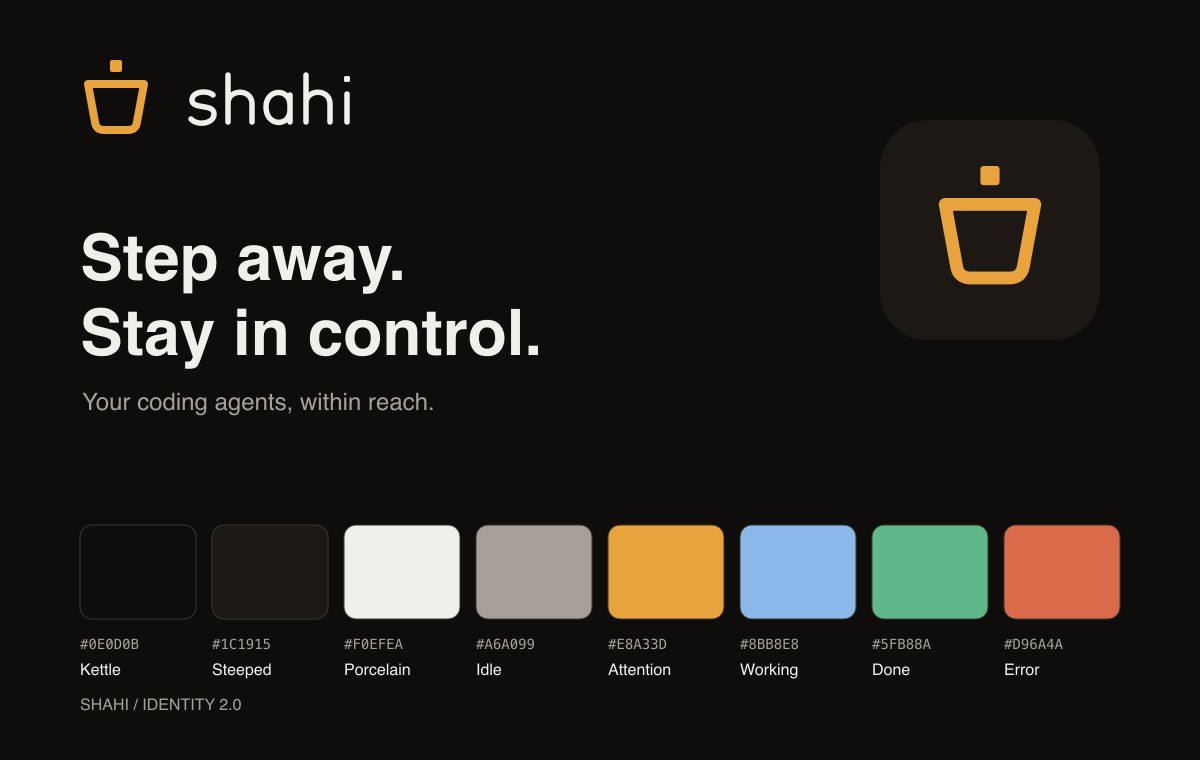
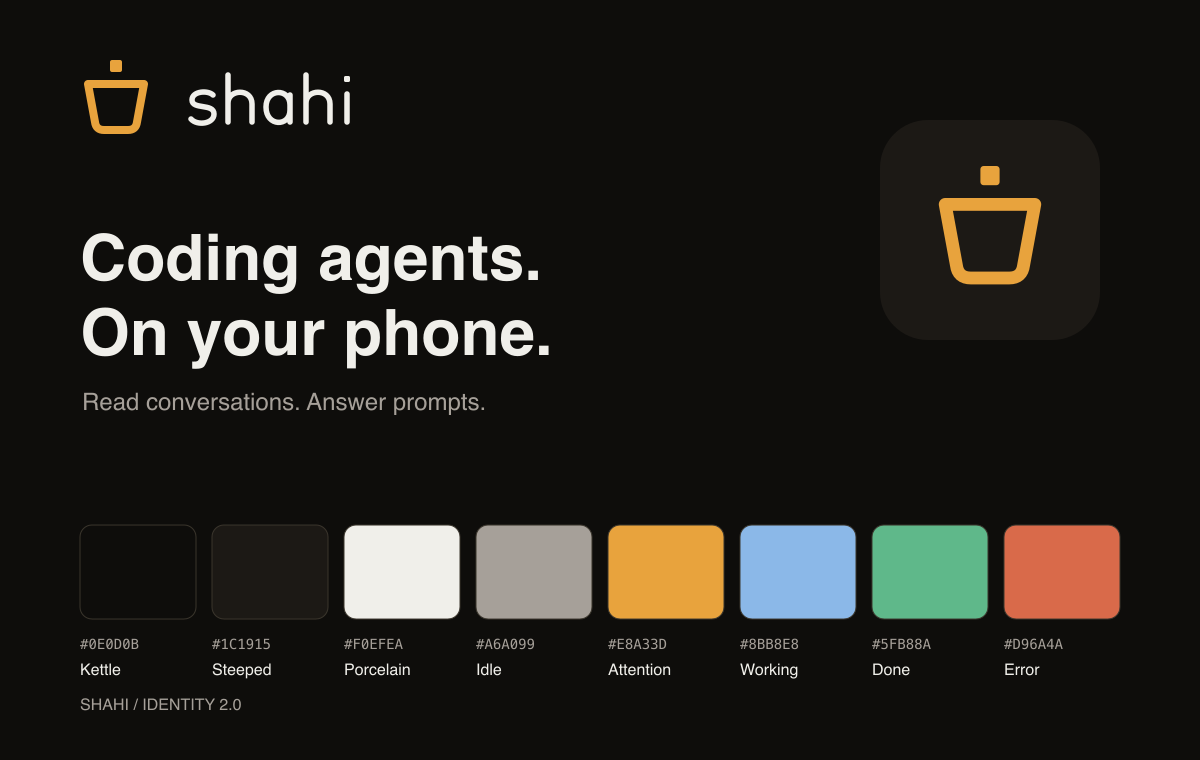
Replace promotional filler with direct product copy

Changed region(s): [[0.0617, 0.3026, 0.4625, 0.4842], [0.0617, 0.5145, 0.4008, 0.5447]]

diff --git a/site/public/index.html b/site/public/index.html
@@ -3,11 +3,11 @@
 <head>
 <meta charset="utf-8">
 <meta name="viewport" content="width=device-width, initial-scale=1">
-<title>Shahi — Step away. Stay in control.</title>
-<meta name="description" content="Your coding agents, within reach. Step away. Stay in control. Read conversations and answer requests from your phone or browser.">
+<title>Shahi — Coding agents on your phone</title>
+<meta name="description" content="Read Claude Code and Codex conversations, answer permission prompts, and manage agents from your phone or browser.">
 <meta name="color-scheme" content="dark">
-<meta property="og:title" content="Shahi — Step away. Stay in control.">
-<meta property="og:description" content="Your coding agents, within reach. Read conversations and answer requests from anywhere.">
+<meta property="og:title" content="Shahi — Coding agents on your phone">
+<meta property="og:description" content="Read agent conversations and answer permission prompts from your phone or browser.">
 <meta property="og:type" content="website">
 <meta property="og:url" content="https://getshahi.dev">
 <link rel="icon" href="/favicon.svg" type="image/svg+xml">
@@ -26,11 +26,10 @@
       <img class="wordmark" src="/wordmark.svg" alt="Shahi" width="114" height="48">
     </div>
 
-    <h1>Step away.<br>Stay in control.</h1>
+    <h1>Coding agents.<br>On your phone.</h1>
     <p class="lede">
-      Your coding agents, within reach. Read conversations, answer requests,
-      and keep work moving from your phone. Works with Claude Code, Codex,
-      and agents running in <a href="https://herdr.dev">herdr</a>.
+      Read Claude Code and Codex conversations, answer permission prompts,
+      and manage agents running in <a href="https://herdr.dev">herdr</a>.
     </p>
     <div class="hero-actions">
       <a class="button-primary" href="/pwa/">Open Shahi <span aria-hidden="true">↗</span></a>
@@ -80,13 +79,11 @@
   </section>
   <p class="caption">Try answering Claude above. This preview stays on this page; it doesn’t control a real agent.</p>
 
-  <h2>The problem</h2>
+  <h2>Check on work away from your desk</h2>
   <p>
-    Agents stop. Claude Code hits a permission prompt, Codex asks which option
-    you meant, a long run finishes and waits. Each one blocks until you are
-    back at your desk — and you find out by walking over and checking.
+    See which agents are running, finished, or waiting for an answer.
+    Open a conversation to read what happened and respond from your phone.
   </p>
-  <p>Shahi turns that wait into something you can answer from your pocket.</p>
 
   <h2 id="quick-start">Quick start</h2>
   <p>On the machine where herdr runs:</p>
@@ -95,7 +92,7 @@
   <p>
     That installs the sidecar as a user service, generates its secrets, and
     prints a QR code. Scan it in the app and your agents appear. There is
-    nothing else to configure — no port to forward, no domain, no reverse proxy.
+    no inbound port to open when using the relay.
   </p>
 
   <h2>How it connects</h2>
@@ -133,39 +130,43 @@
     instead.
   </p>
 
-  <h2>What makes it different</h2>
-
-  <h3>It reads the transcript, not the screen</h3>
   <p>
-    Claude Code and Codex each write a structured log of the real conversation.
-    Shahi reads that on your machine and renders messages, reasoning, tool
-    calls, patches and results as a phone-shaped thread. Terminal text arrives
-    hard-wrapped at 146 columns and cannot be reflowed — which is why every
-    "mobile tmux" is a pinch-and-scroll exercise, and why Shahi does not try to
-    be one.
+    The browser app trusts the code delivered by this website. A compromised
+    website or publishing account could access an active session or remembered
+    pairing secret. End-to-end encryption protects against the relay; it cannot
+    protect against compromised app code. The relay can still observe connection
+    metadata. Read the <a href="/privacy">privacy policy</a> for details.
   </p>
 
-  <h3>Permission prompts become buttons</h3>
+  <h2>What you can do</h2>
+
+  <h3>Read conversations</h3>
   <p>
-    When an agent renders a menu, Shahi parses it and offers the real choices
-    with the context above them. The answer is checked against a fresh read of
-    the screen, so a stale tap cannot press the wrong row.
+    Shahi displays messages, reasoning, tool calls, and patches from Claude Code
+    and Codex transcripts. Use Screen mode to view terminal output.
+    Transcript entries that Shahi does not support are omitted from the reader.
   </p>
 
-  <h3>Unknown shapes are dropped, never guessed</h3>
+  <h3>Answer permission prompts</h3>
   <p>
-    Output Shahi does not recognise renders nothing, rather than something
-    plausible and wrong. The failure mode is silence, not fiction.
+    Review the request and choose an answer. Shahi checks that the prompt
+    is still current before sending your response. If a prompt cannot be
+    parsed, use the terminal view and text input.
   </p>
 
-  <h3>It runs on your machine</h3>
+  <h3>Manage agents</h3>
   <p>
-    Your agents, your code, your credentials and your transcripts stay on
-    hardware you own. There is no account and no backend of ours holding your
-    data.
+    Start agents in your workspaces, send messages, attach files, and use
+    terminal keys from the app.
   </p>
 
-  <h2>Status</h2>
+  <h3>Connect to your computer</h3>
+  <p>
+    Agents run on your computer. Shahi connects to it through an encrypted
+    relay, or through SSH in the mobile app. No Shahi account is required.
+  </p>
+
+  <h2>Availability</h2>
   <p class="note">
     The iOS app is in private testing — there is no public App Store or
     TestFlight link yet. <a href="/pwa/">Open Shahi in your browser</a> on a
@@ -174,7 +175,7 @@
   </p>
   <p>
     The sidecar, the herdr plugin and the relay are working today. herdr is the
-    only backend so far; tmux is plausible and not built.
+    supported backend; tmux is not supported.
   </p>
 
   <footer>

diff --git a/scripts/brand-assets.ts b/scripts/brand-assets.ts
@@ -46,7 +46,7 @@ const colors = [
   ["Idle", brandColors.muted], ["Attention", amber], ["Working", brandColors.working],
   ["Done", brandColors.success], ["Error", brandColors.danger],
 ];
-const board = svg(`<rect width="1200" height="760" fill="${black}"/><g transform="translate(66 50)">${mark(amber)}<g color="${porcelain}" transform="translate(118 12)">${letters}</g></g><g fill="${porcelain}" font-family="Helvetica, Arial, sans-serif"><text x="80" y="280" font-size="64" font-weight="600">Step away.</text><text x="80" y="355" font-size="64" font-weight="600">Stay in control.</text><text x="82" y="410" fill="${brandColors.muted}" font-size="24">Your coding agents, within reach.</text></g><rect x="880" y="120" width="220" height="220" rx="48" fill="${brandColors.raised}"/><g transform="translate(910 150) scale(1.6)">${mark(amber)}</g>${colors.map(([label,c],i)=>`<rect x="${80+i*132}" y="525" width="116" height="94" rx="12" fill="${c}" stroke="${brandColors.lineBright}"/><text x="${80+i*132}" y="649" fill="${brandColors.muted}" font-family="Menlo, monospace" font-size="14">${c}</text><text x="${80+i*132}" y="675" fill="${porcelain}" font-family="Helvetica, Arial, sans-serif" font-size="16">${label}</text>`).join("")}<text x="80" y="710" fill="${brandColors.muted}" font-family="Helvetica, Arial, sans-serif" font-size="16">SHAHI / IDENTITY 2.0</text>`,1200,760);
+const board = svg(`<rect width="1200" height="760" fill="${black}"/><g transform="translate(66 50)">${mark(amber)}<g color="${porcelain}" transform="translate(118 12)">${letters}</g></g><g fill="${porcelain}" font-family="Helvetica, Arial, sans-serif"><text x="80" y="280" font-size="64" font-weight="600">Coding agents.</text><text x="80" y="355" font-size="64" font-weight="600">On your phone.</text><text x="82" y="410" fill="${brandColors.muted}" font-size="24">Read conversations. Answer prompts.</text></g><rect x="880" y="120" width="220" height="220" rx="48" fill="${brandColors.raised}"/><g transform="translate(910 150) scale(1.6)">${mark(amber)}</g>${colors.map(([label,c],i)=>`<rect x="${80+i*132}" y="525" width="116" height="94" rx="12" fill="${c}" stroke="${brandColors.lineBright}"/><text x="${80+i*132}" y="649" fill="${brandColors.muted}" font-family="Menlo, monospace" font-size="14">${c}</text><text x="${80+i*132}" y="675" fill="${porcelain}" font-family="Helvetica, Arial, sans-serif" font-size="16">${label}</text>`).join("")}<text x="80" y="710" fill="${brandColors.muted}" font-family="Helvetica, Arial, sans-serif" font-size="16">SHAHI / IDENTITY 2.0</text>`,1200,760);
 await writeFile("docs/brand/overview.svg",board);
 await sharp(Buffer.from(board)).png().toFile("docs/brand/overview.png");
 console.log("Generated Shahi logo, wordmark, app icons, and identity overview.");

diff --git a/web/src/components/PairBrowser.tsx b/web/src/components/PairBrowser.tsx
@@ -11,13 +11,13 @@ export function PairBrowser({ initialCode, onConsumed, onSuccess }: { initialCod
   const [scanning, setScanning] = useState(false);
   const [error, setError] = useState("");
   return <main className="pair-browser">
-    <div className="pair-browser__intro"><span className="pair-browser__mark" aria-hidden="true"><Logo size={56} /></span><h1>Your agents, wherever you are.</h1><p>Connect Shahi to the computer running herdr. Your sessions stay on your computer; the relay carries encrypted messages.</p></div>
+    <div className="pair-browser__intro"><span className="pair-browser__mark" aria-hidden="true"><Logo size={56} /></span><h1>Connect your computer</h1><p>Read agent conversations and answer prompts in your browser. Pair with the computer running herdr.</p></div>
     <form className="pair-browser__form" onSubmit={(event) => {
       event.preventDefault(); setBusy(true); setError("");
       const secret = code; setCode(""); onConsumed();
       void pairBrowser(secret, name, remember).then(onSuccess).catch((e: Error) => setError(e.message)).finally(() => setBusy(false));
     }}>
-      <h2>Connect your computer</h2><p>In herdr, open Shahi’s pairing action. Scan its QR code or paste the full pairing code below it.</p>
+      <h2>Pair this browser</h2><p>In herdr, open Shahi’s pairing action. Scan its QR code or paste the full pairing code below it.</p>
       <label htmlFor="pairing-code">Pairing code</label><textarea id="pairing-code" value={code} onChange={(e) => setCode(e.target.value)} autoComplete="off" autoCapitalize="none" spellCheck={false} placeholder="shahi://pair#…" disabled={busy} />
       <button type="button" disabled={busy} onClick={() => { setScanning(true); setError(""); }}>Scan QR code</button>
       <label htmlFor="browser-name">Device name</label><input id="browser-name" value={name} maxLength={80} onChange={(e) => setName(e.target.value)} autoComplete="off" disabled={busy} />

diff --git a/mobile/src/screens/connect.tsx b/mobile/src/screens/connect.tsx
@@ -236,8 +236,6 @@ export function Connect({
           </Pressable>
         </View>
 
-        <Text style={styles.hint}>Or reach the sidecar through a server you already SSH into.</Text>
-
         <SshForm ssh={ssh} patch={patch} setAuthKind={(kind) => setAuth(setSsh, kind)} />
 
         {error && <Text style={styles.error}>{error}</Text>}
@@ -292,10 +290,10 @@ function Intro({ onScan, onSsh, busy, error }: { onScan: () => void; onSsh: () =
         <Wordmark color={theme.fg} />
       </View>
 
-      <Text style={styles.lede}>Step away. Stay in control.</Text>
+      <Text style={styles.lede}>Connect your computer</Text>
       <Text style={styles.introText}>
-        Shahi shows the agents running on a server you control — Claude Code, codex, plain shells — and
-        lets you reply from anywhere. It talks to a small helper you install on that server once.
+        Read agent conversations and answer prompts from your phone. Install Shahi on the computer
+        running your agents, then scan its pairing code.
       </Text>
 
       <Text style={styles.step}>1 — On your server, run:</Text>
@@ -348,7 +346,7 @@ function SshForm({
 }) {
   return (
     <>
-      <Text style={styles.hint}>Reach your server over SSH — the way you already log into it.</Text>
+      <Text style={styles.hint}>Enter your server’s SSH details.</Text>
 
       <View style={styles.row}>
         <View style={styles.grow}>

diff --git a/README.md b/README.md
@@ -4,12 +4,10 @@
 
 # Shahi
 
-**Step away. Stay in control.**
+**Coding agents on your phone.**
 
-Your coding agents, within reach. Read conversations, answer requests, and keep work moving from your phone.
-
-Claude Code, Codex, and every agent running in [herdr](https://herdr.dev),
-in one calm mobile inbox — the real conversation, not a shrunken terminal.
+Read Claude Code and Codex conversations, answer permission prompts, and manage
+agents running in [herdr](https://herdr.dev) from your phone or browser.
 
 [![CI](https://github.com/iYassr/shahi/actions/workflows/ci.yml/badge.svg)](https://github.com/iYassr/shahi/actions/workflows/ci.yml)
 [![License: MIT](https://img.shields.io/badge/License-MIT-black.svg)](LICENSE)
@@ -24,13 +22,10 @@ in one calm mobile inbox — the real conversation, not a shrunken terminal.
 
 ---
 
-## The problem
+## Check on work away from your desk
 
-Agents stop. Claude Code hits a permission prompt, Codex asks which option you
-meant, a long run finishes and waits. Each one blocks until you are back at your
-desk — and you find out by walking over and checking.
-
-Shahi turns that wait into a notification you can answer from your pocket.
+See which agents are running, finished, or waiting for an answer. Open a
+conversation to read what happened and respond from your phone.
 
 <p align="center">
   <img src="docs/screenshots/02-agents.png" width="230" alt="Agents screen: an agent waiting for an answer, its question and choices already visible" />
@@ -39,8 +34,8 @@ Shahi turns that wait into a notification you can answer from your pocket.
   <img src="docs/screenshots/01-onboarding.png" width="230" alt="Two-step connection screen" />
 </p>
 <p align="center">
-  <sub><b>Agents</b> — what needs you · <b>Reader</b> — the real conversation ·
-  <b>Spaces</b> — the map · <b>Connect</b> — scan once</sub>
+  <sub><b>Agents</b> — agent status · <b>Reader</b> — conversations ·
+  <b>Spaces</b> — workspaces · <b>Connect</b> — scan once</sub>
   <br><sub>Device captures from an earlier build; the current visual system is in the <a href="docs/brand/README.md">brand guidelines</a>.</sub>
 </p>
 
@@ -88,50 +83,39 @@ flowchart LR
 
 Every frame above the relay is sealed end to end between phone and sidecar
 (X25519 → HKDF → ChaCha20-Poly1305), keyed from the pairing secret, which never
-travels. The relay multiplexes ciphertext and knows a key hash, not who you are.
+travels. The relay multiplexes ciphertext. It can observe IP addresses, server
+and device identifiers, connection times, and message sizes and timing.
 
 One alternative, if you would rather have no third party in the path at all:
 
 | Mode | Reach | Set-up |
 |---|---|---|
-| **Relay** (default) | Anywhere | None — the first QR just works |
+| **Relay** (default) | Anywhere | Scan a pairing QR code |
 | **SSH tunnel** | Anywhere you can SSH | Host key pinned on first connect |
 
 `RELAY_URL=` (empty) in the plugin's config opts out of the relay entirely; the
 app then reaches the box over SSH. There is no third mode: the sidecar binds
 loopback and is never given an address of its own to expose.
 
-## What makes it different
+## Features
 
-**It reads the transcript, not the screen.** Claude Code and Codex each write a
-structured log of the real conversation. Shahi reads that on your machine and
-renders messages, reasoning, tool calls, patches, files and results as a
-phone-shaped thread. Terminal text arrives hard-wrapped at 146 columns and
-cannot be reflowed — which is why every "mobile tmux" is a pinch-and-scroll
-exercise, and why Shahi does not try to be one.
-
-**Permission prompts become buttons.** When an agent renders a menu, Shahi
-parses it and offers the real choices, with the context above them. A prompt is
-answered by the server against a fresh read of the screen, so a stale tap
-cannot press the wrong row. When the parse is not confident, you get the raw
-terminal and a text box instead of invented buttons.
-
-**Unknown shapes are dropped, never guessed.** An agent output Shahi does not
-recognise renders nothing rather than something plausible and wrong. The failure
-mode is silence, not fiction.
-
-**Full control stays one tap away.** Reply, answer, attach a file, send terminal
-keys, start a new agent in any workspace, or drop to the raw screen.
-
-**It runs on your machine.** Your agents, code, credentials and transcripts stay
-on hardware you own.
+- **Read conversations.** View messages, reasoning, tool calls, patches, files,
+  and results from Claude Code and Codex transcripts. Unsupported entries are
+  omitted from the reader. Screen mode shows terminal output.
+- **Answer permission prompts.** Review a request and choose an answer. The server
+  checks that the prompt is still current before sending the response. If parsing
+  fails, use the terminal view and text input.
+- **Manage agents.** Send messages, attach files, use terminal keys, and start
+  agents in your workspaces.
+- **Connect to your computer.** Agents run on your computer. Connect through the
+  encrypted relay, or use SSH in the mobile app.
 
 ## Private by design
 
-Shahi can type into your terminal, so the boundary is deliberate rather than
-incidental:
+Shahi can send commands to your terminal. Access is protected as follows:
 
 - The sidecar binds to loopback and is gated by a passcode.
+- Logout invalidates the session on the server, including after a restart.
 - Pairing codes are single-use and expire in ten minutes. Each paired device
   gets its own secret and can be revoked — effective on its next request and on
   its open socket.
@@ -140,6 +124,12 @@ incidental:
 - Secrets live in herdr's per-plugin config directory, never in the checkout.
   On the phone they live in the iOS Keychain.
 - Terminal output is never written to logs.
+
+The browser app trusts the code delivered by `getshahi.dev`. A compromised
+website or publishing account could read an active session or remembered
+pairing secret. Encryption protects against the relay; it cannot protect
+against compromised code running on your device. See the
+[privacy policy](https://getshahi.dev/privacy) for metadata and push-provider access.
 
 The threat model, the protocol, and what is fixed versus accepted are written
 down in the [security review](docs/security-review.md) and

diff --git a/docs/brand/README.md b/docs/brand/README.md
@@ -6,9 +6,9 @@ This identity applies to the native app, browser app, website, and distributed b
 
 ## Promise and voice
 
-**Step away. Stay in control.**
+**Coding agents on your phone.**
 
-Your coding agents, within reach. Read conversations, answer requests, and keep work moving from your phone.
+Read agent conversations, answer permission prompts, and manage workspaces from your phone or browser.
 
 Shahi feels calm, precise, and approachable. The tea association expresses a moment away from the desk; keep tea language occasional. Use Shahi in prose and the lowercase wordmark in brand lockups. Describe supported agents and capabilities accurately, without implying autonomous work continues when an agent is waiting for input.
 
@@ -88,3 +88,7 @@ Controls compress slightly when pressed, selected pins settle once, and transien
 On the first visible appearance in a session, the Shahi mark lifts up to 6px and gently rocks, settling within 1.2 seconds. It plays once per browser tab session or native app launch, never blocks interaction, and is skipped with Reduced Motion. Navigating between screens or returning from the background must not repeat it. Provider avatars retain their separate working animation.
 
 The website keeps the lockup free of replay controls. Decorative motion never triggers a network action. The website's answer interaction is an explicitly labeled local preview, not a real approval.
+
+## Product copy
+
+Describe the action or result directly. Use “Scan QR code”, “Connect your computer”, and “Read conversations”. Avoid slogans, vague promises, forced contrasts, and repeated claims. Keep connection instructions and errors specific enough to act on.
